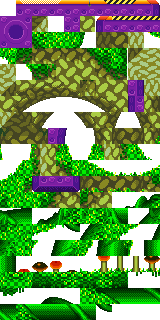
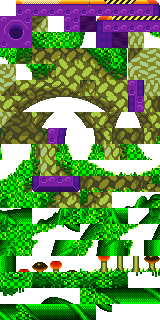
Lets get this rolling again

Changed region(s): [[0.5, 0.0312, 0.8125, 0.1562], [0.0625, 0.0625, 0.1562, 0.125]]

diff --git a/NotSonic/LevelScene.cs b/NotSonic/LevelScene.cs
@@ -44,6 +44,10 @@ namespace NotSonic
         bool hasWater = true;
         float waterLevel = 480.0f;
 
+        // Slomo for testing
+        bool sloMo = false;
+
+
 
         // Shader fun
         Shader LUTShade = new Shader(ShaderType.Fragment, Assets.LUTSHADER);
@@ -211,6 +215,16 @@ namespace NotSonic
             ProcessMessages();
             // Check freezelock
             CheckFreezeLock();
+            // Check Slomo
+            if(sloMo)
+            {
+                Game.TargetFramerate = 10;
+            }
+            else
+            {
+                Game.TargetFramerate = 60;
+            }
+
 
             if(thePlayer.myMovement.YPos > Global.maxlvlheight)
             {
@@ -451,9 +465,13 @@ namespace NotSonic
                 {
                     thePlayer.GrossMode = !thePlayer.GrossMode;
                 }
-                if (commandPassed == "4")
+                if(commandPassed == "4")
                 {
                     MakeBadniks();
+                }
+                if(commandPassed == "5")
+                {
+                    
                 }
             }
         }

diff --git a/NotSonic/Program.cs b/NotSonic/Program.cs
@@ -48,7 +48,7 @@ namespace NotSonic
 
             Assets.GenerateAssetNames();
             Global.theGame.FirstScene = new LevelScene(Assets.MAP_TEST);
-            Global.theGame.Color = new Color("736763");
+            Global.theGame.Color = new Color("5D516E");
             
 
             // Begin otter!
